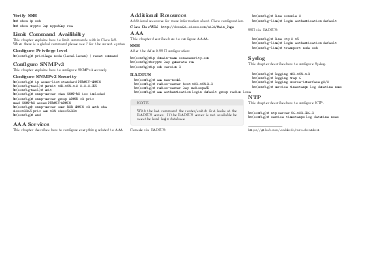
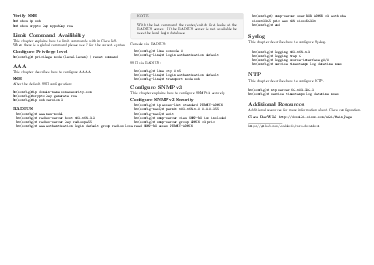
Updated layout

Changed region(s): [[0.0294, 0.0302, 0.9706, 0.5132]]

diff --git a/cheatsheet/security.tex b/cheatsheet/security.tex
@@ -1,25 +1,25 @@
 \section{Security}
-This chapter explains how to secure devices 
+This chapter explains how to secure devices
 \subsection{Commands to increase Acces Security}
 \begin{verbatim}
-R1(config)# security paswords min-length 10 
+R1(config)# security paswords min-length 10
 R1(config)# service password-encryption
-R1(config)# line vty 0 4 
+R1(config)# line vty 0 4
 R1(config)# exec-timeout 3 30
-R1(config)# line console 0 
+R1(config)# line console 0
 R1(config)# exec-timeout 3 30
 \end{verbatim}
 
 \subsection{Enable Stronger Password Encryption}
 \begin{textbox}{gray}{NOTE}
-There are two methods. With the first method you use the already encrypted passwords hash. algoritm-type does not work in Packet Tracer 
+There are two methods. With the first method you use the already encrypted passwords hash. algoritm-type does not work in Packet Tracer
 \end{textbox}
 \begin{verbatim}
 First Methode
 R1(config)# enable secret 9 HZWdzLHwhPtZ3UD9OlUDSGvBy.m8Tf9vCGDJRcYy8zIMbyRJgtxgRkwzY \\
 
 Second Method
-R1(config)# enable algorithm-type scrypt secret cisco 
+R1(config)# enable algorithm-type scrypt secret cisco
 \end{verbatim}
 
 \subsection{Password Encryption for username secret}
@@ -30,15 +30,15 @@ R1(config)# username Bob algorithm-type scrypt secret cisco
 \subsection{Configure Secure Line Acces}
 \begin{verbatim}
 R1(config)# username Bob algorithm-type scrypt secret cisco
-R1(config)# line console 0 
-R1(config-line)# login local 
-R1(config-line)# exit
-R1(config)# line aux 0 
+R1(config)# line console 0
 R1(config-line)# login local
 R1(config-line)# exit
-R1(config)# vty 0 4 
-R1(config-line)# login local 
-R1(config-line)# transport input ssh 
+R1(config)# line aux 0
+R1(config-line)# login local
+R1(config-line)# exit
+R1(config)# vty 0 4
+R1(config-line)# login local
+R1(config-line)# transport input ssh
 \end{verbatim}
 
 
@@ -47,9 +47,9 @@ R1(config-line)# transport input ssh
 PERMIT-ADMIN is an ACL-class. These enhancement only work on virtual connections like SSH
 \end{textbox}
 \begin{verbatim}
-R1(config)# login block-for 10 attempts 3 within 30 
-R1(config)# login quiet-mode acces-class PERMIT-ADMIN 
-R1(config)# login delay 5 
+R1(config)# login block-for 10 attempts 3 within 30
+R1(config)# login quiet-mode acces-class PERMIT-ADMIN
+R1(config)# login delay 5
 R1(config)# login on-succes log
 R1(config)# login on-failure log
 \end{verbatim}
@@ -62,16 +62,16 @@ R1# show login failures
 
 \subsection{Configure SSH }
 \begin{textbox}{gray}{NOTE}
-To SSH from router-to-router use SSH -l username ip 
+To SSH from router-to-router use SSH -l username ip
 \end{textbox}
 \begin{verbatim}
 R1(config)# ip domain-name example.com
 R1(config)# crypto key generate rsa general-keys modulus 2048
-R1(config)# ip ssh version 2 
+R1(config)# ip ssh version 2
 R1(config)# username Bob algorithm-type scrypt secret cisco
 R1(config)# line vty 0 4
 R1(conifg-line)# login local
-R1(config-line)# transport input ssh 
+R1(config-line)# transport input ssh
 R1(config-line)# end
 \end{verbatim}
 
@@ -79,40 +79,20 @@ You can also modify SSH parameters
 
 \begin{verbatim}
 R1(config)#ip ssh time-out 60
-R1(config)#ip ssh authentication-retries 3 
+R1(config)#ip ssh authentication-retries 3
 \end{verbatim}
 
 \subsection{Verify SSH}
 \begin{verbatim}
 R1# show ip ssh
-R1# show crypto key mypubkey rsa 
+R1# show crypto key mypubkey rsa
 \end{verbatim}
 
 \section{Limit Command Availibilty}
-This chapter explains how to limit commands within Cisco IoS. 
-When there is a global command please use ? for the correct syntax 
+This chapter explains how to limit commands within Cisco IoS.
+When there is a global command please use ? for the correct syntax
 
 \subsection{Configure Privilege level}
 \begin{verbatim}
-R1(config)# privilege mode (level leven) | reset command 
+R1(config)# privilege mode (level leven) | reset command
 \end{verbatim}
-
-\section{Configure SNMPv3}
-This chapter explains how to configure SNMPv3 securely
-
-\subsection{Configure SNMPv3 Security}
-
-\begin{verbatim}
-R1(config)# ip acces-list standard PERMIT-ADMIN 
-R1(config-nacl)# permit 192.168.1.0 0.0.0.255
-R1(config-nacl)# exit
-R1(config)# snmp-server view SNMP-RO iso included 
-R1(config)# snmp-server group ADMIN v3 priv 
-read SNMP-RO acces PERMIT-ADMIN
-R1(config#) snmp-server user BOB ADMIN v3 auth sha 
-cisco12345 priv aes 128 cisco54321
-R1(config)# end 
-\end{verbatim}
-
-\section{AAA Services}
-This chapter describes how to configure everything related to AAA

diff --git a/cheatsheet/snmp.tex b/cheatsheet/snmp.tex
@@ -1,0 +1,14 @@
+\section{Configure SNMPv3}
+This chapter explains how to configure SNMPv3 securely
+\subsection{Configure SNMPv3 Security}
+\begin{verbatim}
+  R1(config)# ip acces-list standard PERMIT-ADMIN
+  R1(config-nacl)# permit 192.168.1.0 0.0.0.255
+  R1(config-nacl)# exit
+  R1(config)# snmp-server view SNMP-RO iso included
+  R1(config)# snmp-server group ADMIN v3 priv
+  read SNMP-RO acces PERMIT-ADMIN
+  R1(config#) snmp-server user BOB ADMIN v3 auth sha
+  cisco12345 priv aes 128 cisco54321
+  R1(config)# end
+\end{verbatim}

diff --git a/cheatsheet.tex b/cheatsheet.tex
@@ -111,17 +111,20 @@
 % Security
 \input{cheatsheet/security.tex}
 
-% Additional Resources
-\input{cheatsheet/resources.tex}
-
 % AAA
 \input{cheatsheet/aaa.tex}
+
+% SNMP
+\input{cheatsheet/snmp.tex}
 
 % Syslog
 \input{cheatsheet/syslog.tex}
 
 % NTP
 \input{cheatsheet/ntp.tex}
+
+% Additional Resources
+\input{cheatsheet/resources.tex}
 
 
 \rule{0.3\linewidth}{0.25pt}
